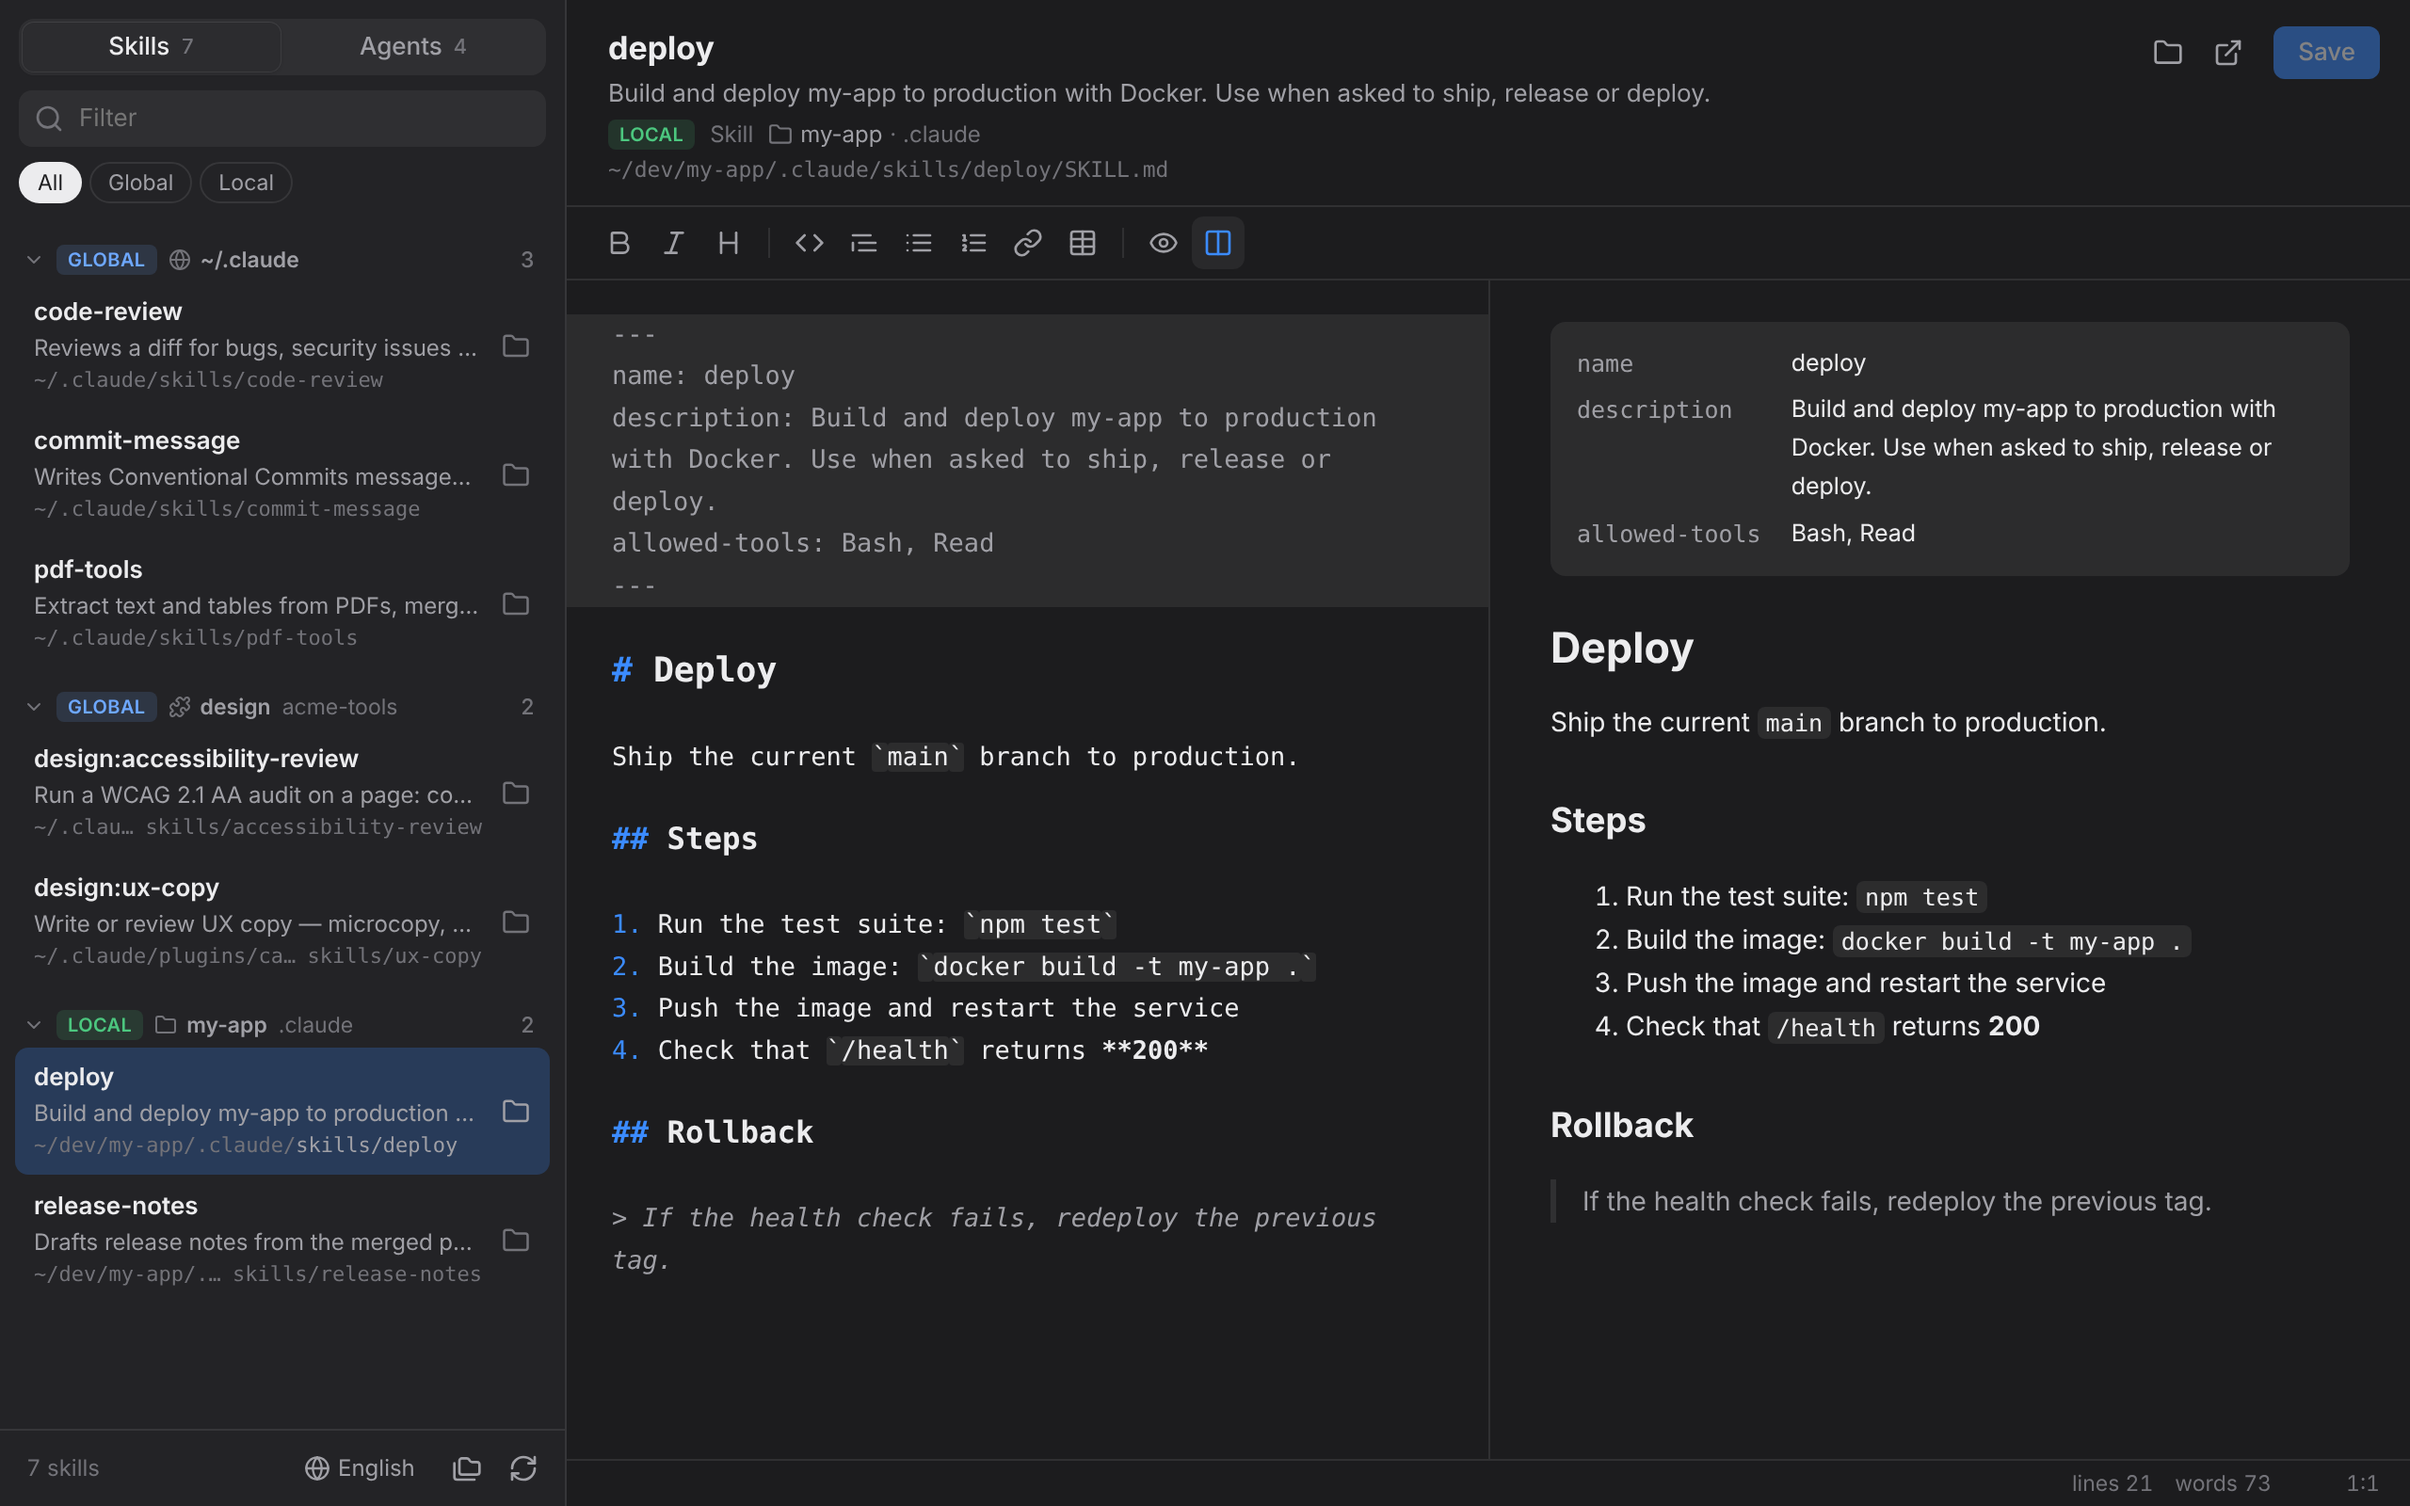
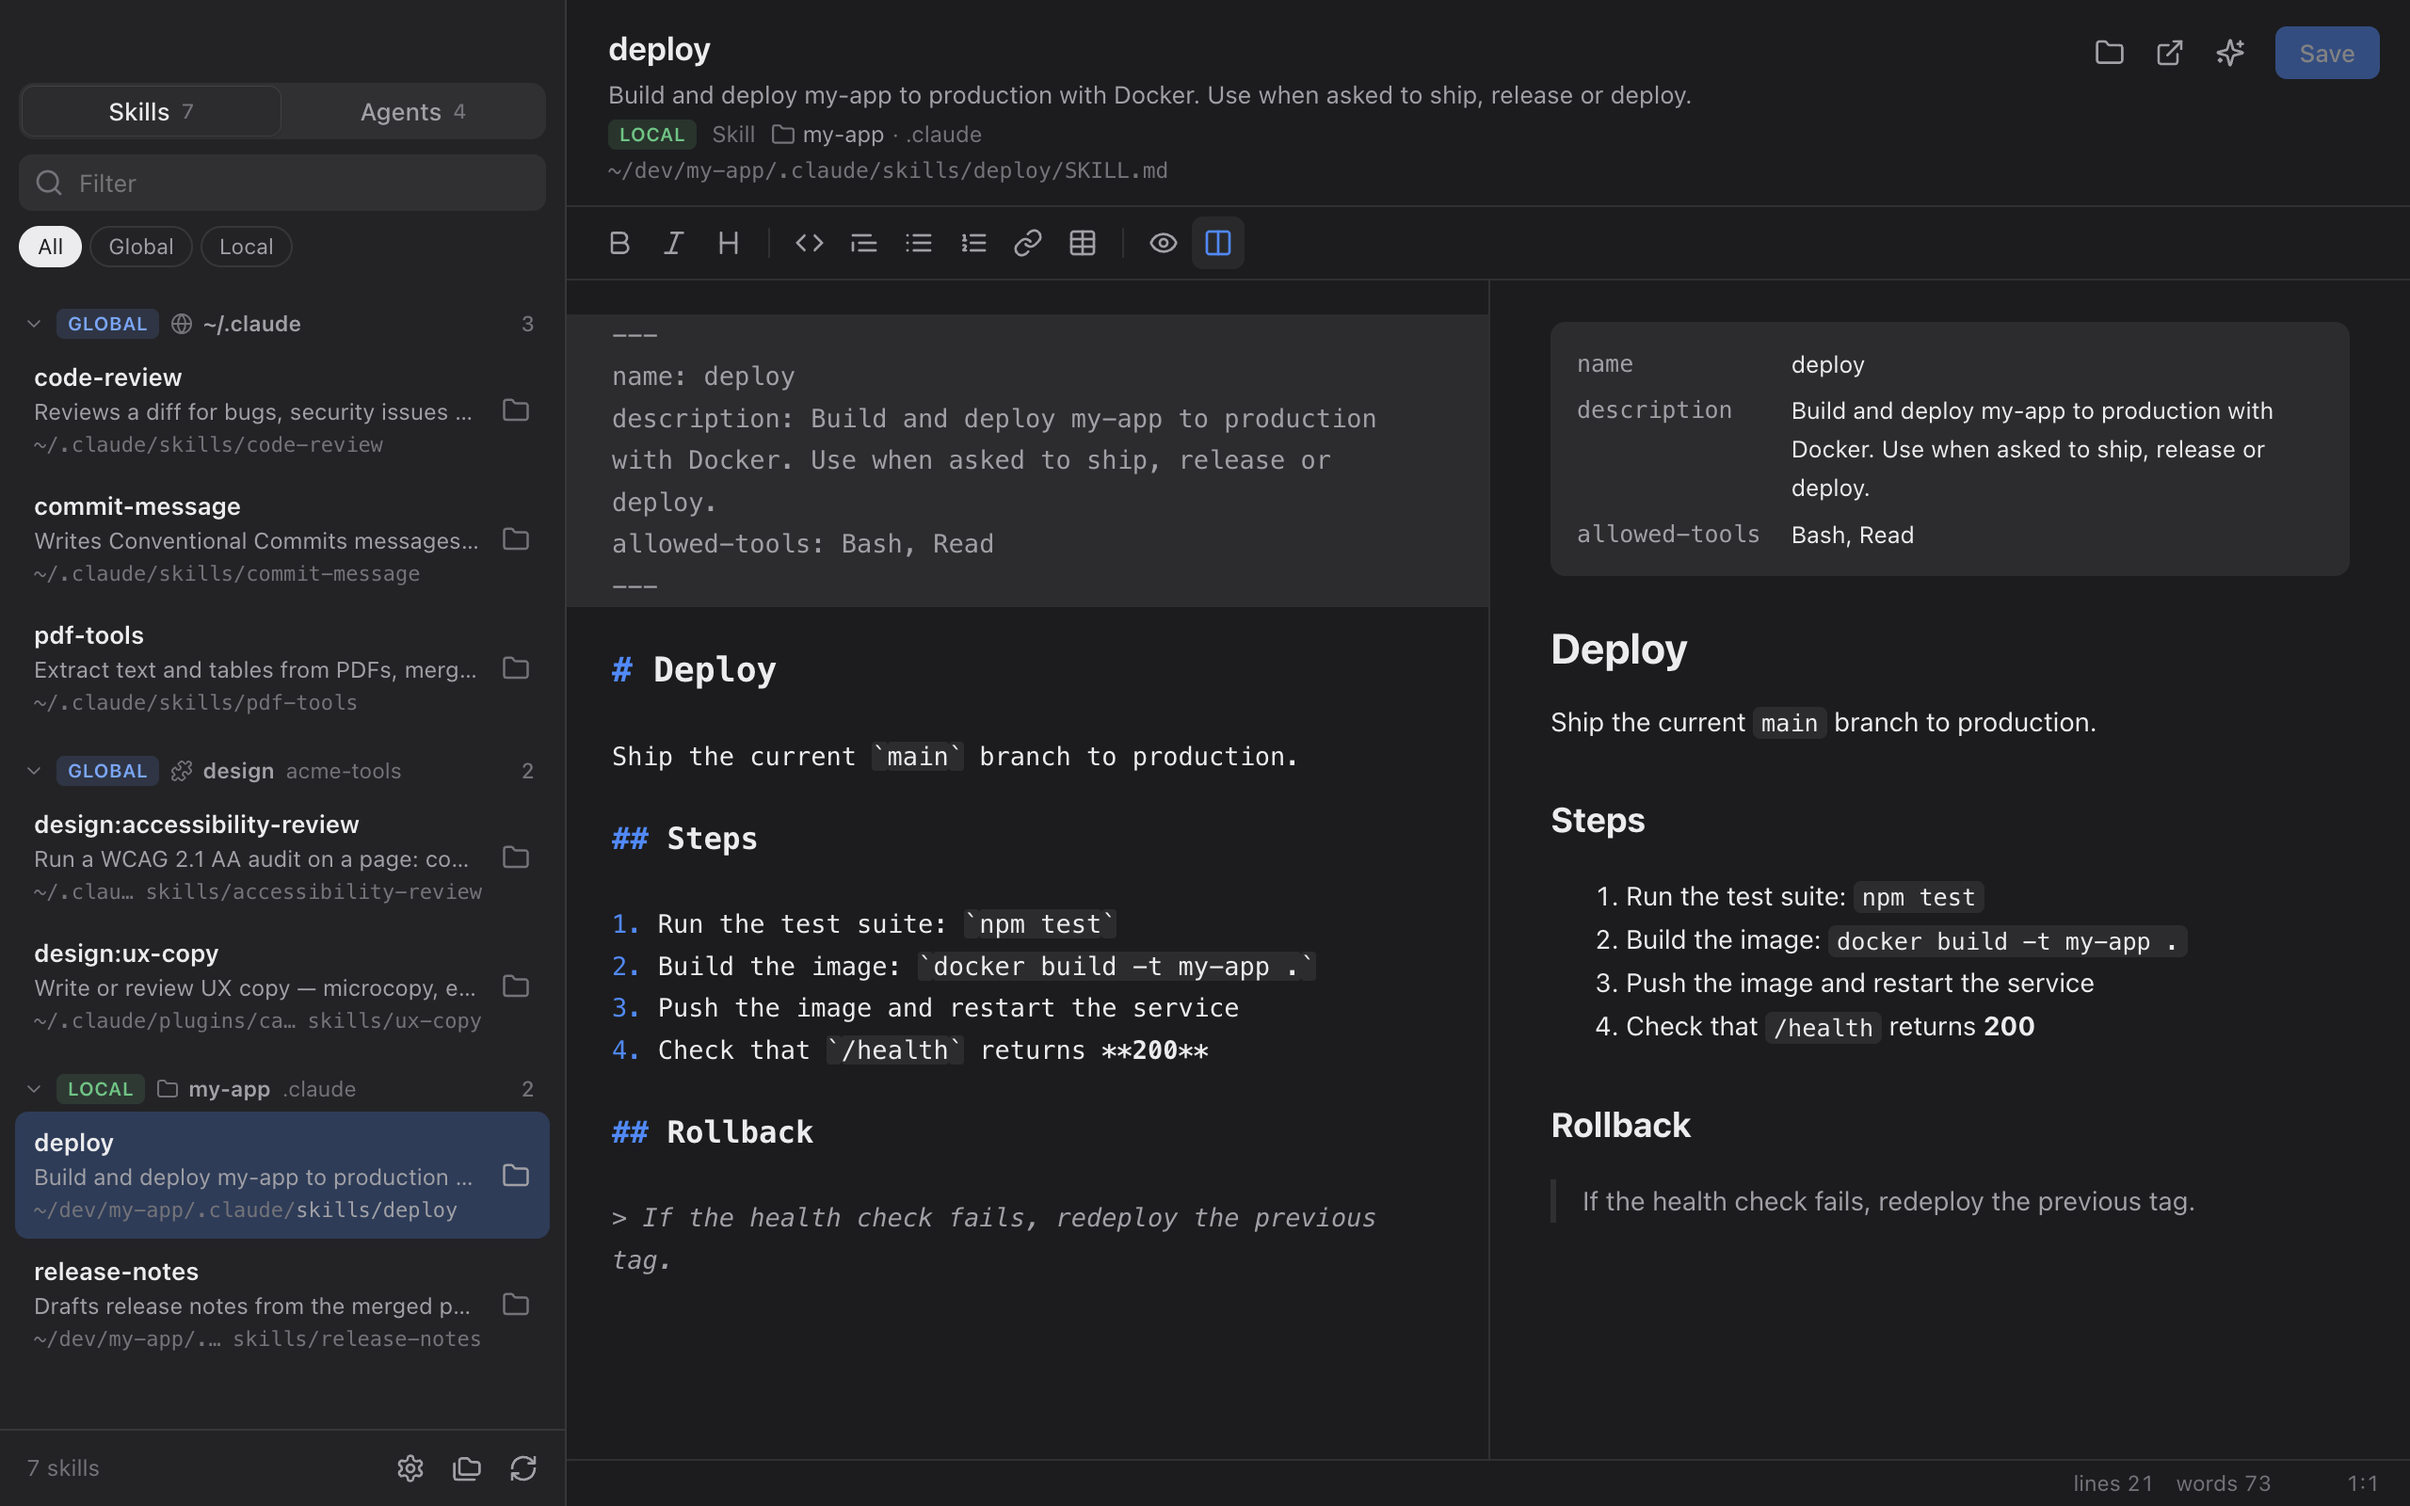
Document the AI chat panel and Settings view

diff --git a/AGENTS.md b/AGENTS.md
@@ -31,17 +31,20 @@ src/preload.js           window.api (contextBridge); EVENTS = allowed main → r
 src/scanner.js           finds skills and agents, classifies scope, plugin info
 src/updater.js           update check / download / install (Electron side)
 src/update-core.js       Electron-free update logic (unit-tested)
+src/ai.js                AI chat IPC handlers and encrypted key storage (Electron side)
+src/ai-core.js           Electron-free AI logic: requests, errors, URL validation (unit-tested)
 src/shared/frontmatter.js  minimal YAML frontmatter parser (UMD: main + renderer)
 src/shared/i18n.js         EN/FR strings (UMD: main + renderer)
 src/shared/semver.js       semver helpers (updater + scripts/check-version.mjs)
-src/renderer/            index.html, app.js (UI state, list, editor), icons.js, styles.css
+src/shared/proposal.js     AI proposal extraction and line diff (UMD: renderer + tests)
+src/renderer/            index.html, app.js (UI state, list, editor), ai-panel.js, settings-view.js, icons.js, styles.css
 scripts/check-version.mjs  version check used by CI
 test/                    node:test suites
 .github/workflows/       build.yml (build + release), version-check.yml, test.yml
 docs/                    README screenshots
 ```
 
-The renderer loads scripts with `<script>` tags (UMD globals: `window.api`, `Frontmatter`, `I18n`, `Icons`, `EasyMDE`). EasyMDE is loaded from `node_modules/easymde/dist/` by relative path; electron-builder ships it in the asar.
+The renderer loads scripts with `<script>` tags (UMD globals: `window.api`, `Frontmatter`, `I18n`, `Icons`, `EasyMDE`, `Proposal`, `AiPanel`, `SettingsView`). EasyMDE is loaded from `node_modules/easymde/dist/` by relative path; electron-builder ships it in the asar.
 
 ## Security model (keep it)
 
@@ -49,13 +52,16 @@ The renderer loads scripts with `<script>` tags (UMD globals: `window.api`, `Fro
 - The renderer never sends file paths. `skills:scan` fills `registry` (id = real path → file); read, write, reveal and open take an **id** and throw if it is not in the last scan. Folder roots are added only through the native folder dialog.
 - New IPC: `ipcMain.handle` in `main.js`, validate every argument, expose a narrow function in `preload.js`. A new main → renderer event must be added to `EVENTS` (or get a dedicated `on…` helper like `onUpdateStatus`).
 - Links in the preview never navigate the window; `http(s)` URLs open in the browser.
+- AI requests run in the main process, so the CSP keeps blocking network access from the renderer. API keys are encrypted with `safeStorage`, never returned to the renderer and never stored in plaintext. Provider, model and URL come from the config, never from `ai:send`. Requests refuse redirects, `http` is accepted only on loopback, and changing the local URL deletes its key.
+- AI replies are displayed with `textContent`, never rendered as Markdown or HTML: an opened file may carry prompt injection, and the CSP's `img-src https:` would let a rendered image leak its content. The model has no tools; it can only propose text, which the user reviews as a diff.
 
 ## How things work
 
 - **Scanner**: walks the configured roots (depth 9), skips `node_modules`, `.git`, build folders and inactive `~/.claude` content. Skill = folder with `SKILL.md` (not descended further). Agent = `.md` with a `name` or `description` in its frontmatter inside an `agents/` folder of `.claude` or of a plugin. Scope: under `~/.claude`, `~/.codex`, `~/.agents`… = global; under `<project>/.claude`… = local; elsewhere = other. In `~/.claude/plugins` only `cache/` and `synced/` are read, and versions marked `.orphaned_at` are skipped.
 - **Saving** keeps the file's line endings (LF/CRLF) and compares the mtime to detect external edits (overwrite / reload dialog).
-- **Config**: `<userData>/config.json` = `{ version, lang, roots }`; `CONFIG_VERSION` + `loadConfig()` handle migrations, including the former `Skills Manager` userData folder. Per-viewer UI state (tab, scope filter, collapsed groups, sidebar width, last file) lives in `localStorage`.
+- **Config**: `<userData>/config.json` = `{ version, lang, roots, ai }`; `CONFIG_VERSION` + `loadConfig()` handle migrations, including the former `Skills Manager` userData folder. Bumping `CONFIG_VERSION` adds the default folders back, so optional fields like `ai` are normalized instead. Per-viewer UI state (tab, scope filter, collapsed groups, sidebar width, last file) lives in `localStorage`.
 - **i18n**: `t(key, params)` in the renderer, `tr(key, params)` in main; `data-i18n`, `data-i18n-title`, `data-i18n-placeholder` in HTML; `applyLang()` re-renders and `buildMenu()` rebuilds menus on language change. See the `add-ui-text` skill.
+- **AI chat**: `ai-panel.js` sends the editor text and the conversation through `ai:send`, and `ai-core.js` calls Anthropic's Messages API or the OpenAI format (OpenAI, Ollama, LM Studio) without streaming. Proposals come back as the complete file in a `<proposed_file>` block; `shared/proposal.js` extracts it and computes the diff. Apply goes through `mde.value()`, not `setEditorValue()`, to keep the undo history. Conversations stay in memory, one per file.
 - **Releases**: a push to `main` runs `build.yml`: dmg (arm64 + x64) on `macos-latest`, NSIS (x64 + arm64) on `windows-latest`, then the *Release* job publishes `v<version>`. A version with a suffix (`1.2.0-beta.1`) becomes a GitHub pre-release. Manual runs only build.
 - **Updates**: the packaged app reads `releases/latest` 3 s after launch and from *Check for Updates…*. It downloads the asset for the platform, verifies the GitHub SHA-256 digest, then on quit: macOS swaps the bundle copied from the dmg (`hdiutil` + `ditto`), Windows runs the installer with `/S --updated --force-run`. Squirrel/electron-updater is not used because the builds are only ad-hoc signed.
 
@@ -76,7 +82,7 @@ The renderer loads scripts with `<script>` tags (UMD globals: `window.api`, `Fro
 
 ## Testing
 
-- `npm test` covers semver, the updater core (asset choice, API mapping, download with digest, bundle swap) and i18n (key parity, placeholders, every used key exists). Add tests for new Electron-free logic.
+- `npm test` covers semver, the updater core (asset choice, API mapping, download with digest, bundle swap), the AI core (requests, errors, URL validation), proposals (extraction, diff) and i18n (key parity, placeholders, every used key exists). Add tests for new Electron-free logic.
 - UI changes: no automated UI test in CI. Use the `ui-screenshot` skill to check the window in light and dark mode, and refresh `docs/screenshot*.png` when the main screen changes.
 - Updater changes: use the `test-update-flow` skill (mock release feed). Real installs can only be tested with packaged builds on macOS and Windows.
 

diff --git a/README.md b/README.md
@@ -66,7 +66,8 @@ Merging the pull request runs [`build.yml`](.github/workflows/build.yml): it bui
   Collapsible groups by source (config, plugin, project), with an All / Global / Local filter.
 - **Scanned folders** (button at the bottom of the sidebar): by default `~/.claude/skills`, `~/.claude/agents`, `~/.claude/plugins`, `~/.agents/skills`, `~/.codex/skills`. Add `~/dev` (or similar) to see the local skills/agents of your projects. Config is stored in `userData/config.json`.
 - Recursive scan (depth 9), skips `node_modules`, `.git`, `dist`, `build`, etc. In `~/.claude/plugins`, only what is actually loaded is listed (`cache/`, `synced/`), not the `marketplaces/` catalog or orphaned versions (`.orphaned_at`). Symlinks are followed and duplicates merged.
-- **Language**: picker at the bottom of the sidebar (English by default, French). Covers the UI, native dialogs and menus; the choice is saved in `config.json`.
+- **Language**: picker in Settings, opened with the gear button at the bottom of the sidebar (English by default, French). Covers the UI, native dialogs and menus; the choice is saved in `config.json`.
+- **AI assistant** (sparkles button above the editor): chat about the open file with Anthropic, OpenAI or a local OpenAI-compatible server such as Ollama or LM Studio. Keys and the local URL are set in Settings, and keys are encrypted with the system keychain. Proposals appear as a diff, and Apply only changes the editor: you still review and save. The open file and the conversation are sent to the selected provider.
 - Name and description come from the frontmatter (`name`, `description`), otherwise from the folder/file name.
 - EasyMDE editor: preview, side by side, frontmatter rendered as a table in the preview.
 - Saving: original line endings are kept (LF/CRLF), external changes are detected (auto-reload when there are no local edits, otherwise a choice between Overwrite / Reload).
@@ -91,16 +92,19 @@ src/
   scanner.js              finds skills (SKILL.md) and agents
   updater.js              update check, download and install (Electron side)
   update-core.js          GitHub release lookup, asset choice, download + SHA-256, bundle swap
+  ai.js                   AI chat IPC and encrypted key storage (Electron side)
+  ai-core.js              AI provider requests, errors and URL validation
   shared/frontmatter.js   minimal YAML parser (main + renderer)
   shared/i18n.js          translations (main + renderer): adding a language = one entry in LANGS + dict
   shared/semver.js        semver parsing/comparison (updater + version check)
+  shared/proposal.js      AI proposal extraction and line diff (renderer + tests)
   renderer/               UI (HTML/CSS/JS, no bundler)
 test/                     node --test (npm test)
 .claude/                  Claude Code skills and agents for contributors
 AGENTS.md                 contributor and coding-agent guide (CLAUDE.md imports it)
 ```
 
-Security: `contextIsolation`, `sandbox`, no `nodeIntegration`, strict CSP. The main process only allows reading/writing files returned by the latest scan.
+Security: `contextIsolation`, `sandbox`, no `nodeIntegration`, strict CSP. The main process only allows reading/writing files returned by the latest scan. AI requests run in the main process, and the renderer never receives API keys.
 
 ## Contributing
 
